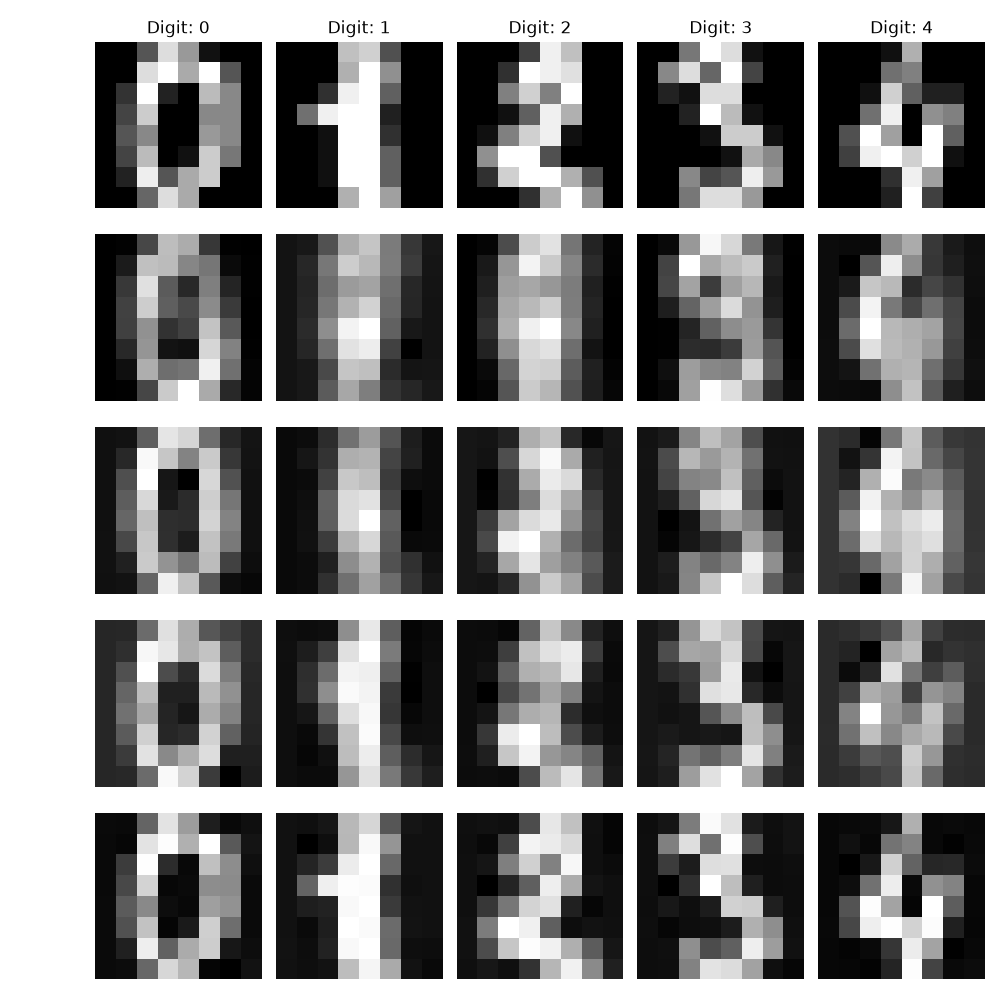
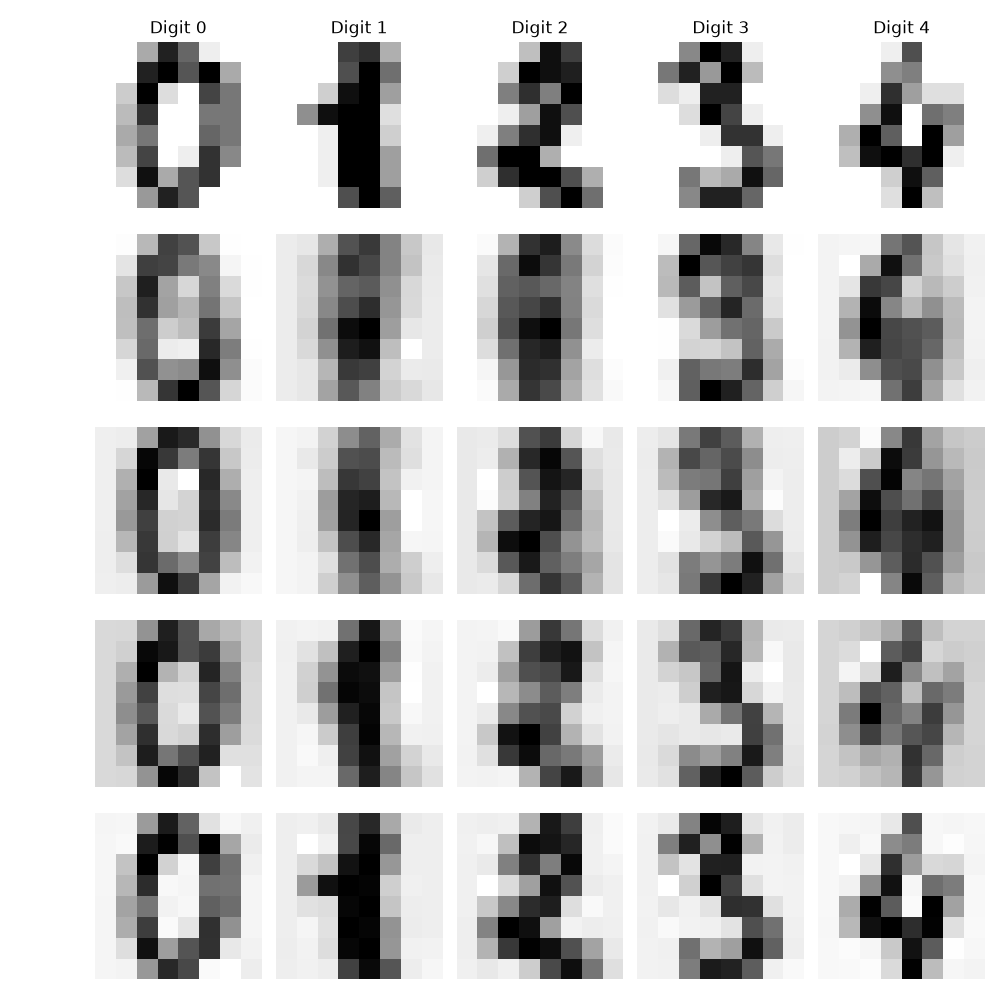
Make changes to feedback

diff --git a/assignments_03/warmup_03.py b/assignments_03/warmup_03.py
@@ -180,6 +180,7 @@ for digit in range(10):
     axes[digit].set_title(f"Digit: {digit}")
     axes[digit].axis('off')
 
+plt.tight_layout()
 plt.savefig("outputs/sample_digits.png")
 plt.show()
 plt.close()
@@ -203,6 +204,10 @@ plt.close()
 # Q3
 
 cumula_variance = np.cumsum(pca.explained_variance_ratio_)
+# Find the first number of components that reaches 80% explained variance.
+n_80 = np.argmax(cumula_variance >= 0.8) + 1
+print(f"Components needed for 80% variance: {n_80}")
+
 
 plt.plot(range(1, len(cumula_variance) + 1), cumula_variance, marker='o')
 plt.xlabel("Number of Components")
@@ -233,21 +238,26 @@ def reconstruct_digit(sample_idx, scores, pca, n_components):
 fig, axes = plt.subplots(5, 5, figsize=(10, 10))
 
 for col in range(5):
-    axes[0, col].imshow(images[col], cmap='gray')
-    axes[0, col].set_title(f"Digit: {col}")
+    axes[0, col].imshow(images[col], cmap='gray_r')
+    axes[0, col].set_title(f"Digit {col}")
     axes[0, col].axis("off")
 
 components = [2, 5, 15, 40]
 for row, n in enumerate(components, start=1):
     for col in range(5):
         reconstructed = reconstruct_digit(col, scores, pca, n)
-        axes[row, col].imshow(reconstructed, cmap='gray')
+        axes[row, col].imshow(reconstructed, cmap='gray_r')
         axes[row, col].axis("off")
 
 row_labels = ["Original", "2 PCs", "5 PCs", "15 PCs", "40 PCs"]
 
 for row, label in enumerate(row_labels):
-    axes[row, 0].set_ylabel(label, rotation=90, size=12)
+    axes[row, 0].set_ylabel(
+        label,
+        rotation=90,
+        size=12,
+        labelpad=15
+    )
 
 plt.tight_layout(rect=[0.08, 0, 1, 1])
 plt.savefig("outputs/pca_reconstructions.png")
@@ -256,6 +266,7 @@ plt.close()
 
 
 # Reconstructions improve as more components are added.
-# With 2 PCs, images are blurry, but around 15 PCs the digits become somewhat recognizable.
-# Using 40 PCs captures more details and produces images closer to the originals.
-# This matches the variance curve, where most information is captured before it levels off.
+# With 2 PCs, the images are blurry. Around 15 PCs, the digits become clearly recognizable.
+# Using 40 PCs captures additional details and produces images closer to the originals.
+# This matches the variance curve because most of the important information is captured
+# before the curve begins to level off.

diff --git a/assignments_03/project_03.py b/assignments_03/project_03.py
@@ -242,10 +242,10 @@ for depth in max_depths:
     print(f"  Test: {accuracy_test:.4f}")
 
 # As the tree depth increases, the training accuracy improves.
-# The test accuracy also improves at first, but deeper trees begin to overfit
-# because the gap between training and test accuracy becomes larger.
-# I would choose a max_depth of 10 because it gives a good balance between
-# accuracy and overfitting.
+# The test accuracy improves at first, but the unlimited depth (None) tree creates
+# a larger gap between training and test accuracy, showing signs of overfitting.
+# I would choose a max_depth of 10 because it provides a good balance between
+# model performance and avoiding overfitting.
 
 best_depth = 10
 best_tree = DecisionTreeClassifier(max_depth=best_depth, random_state=42)
